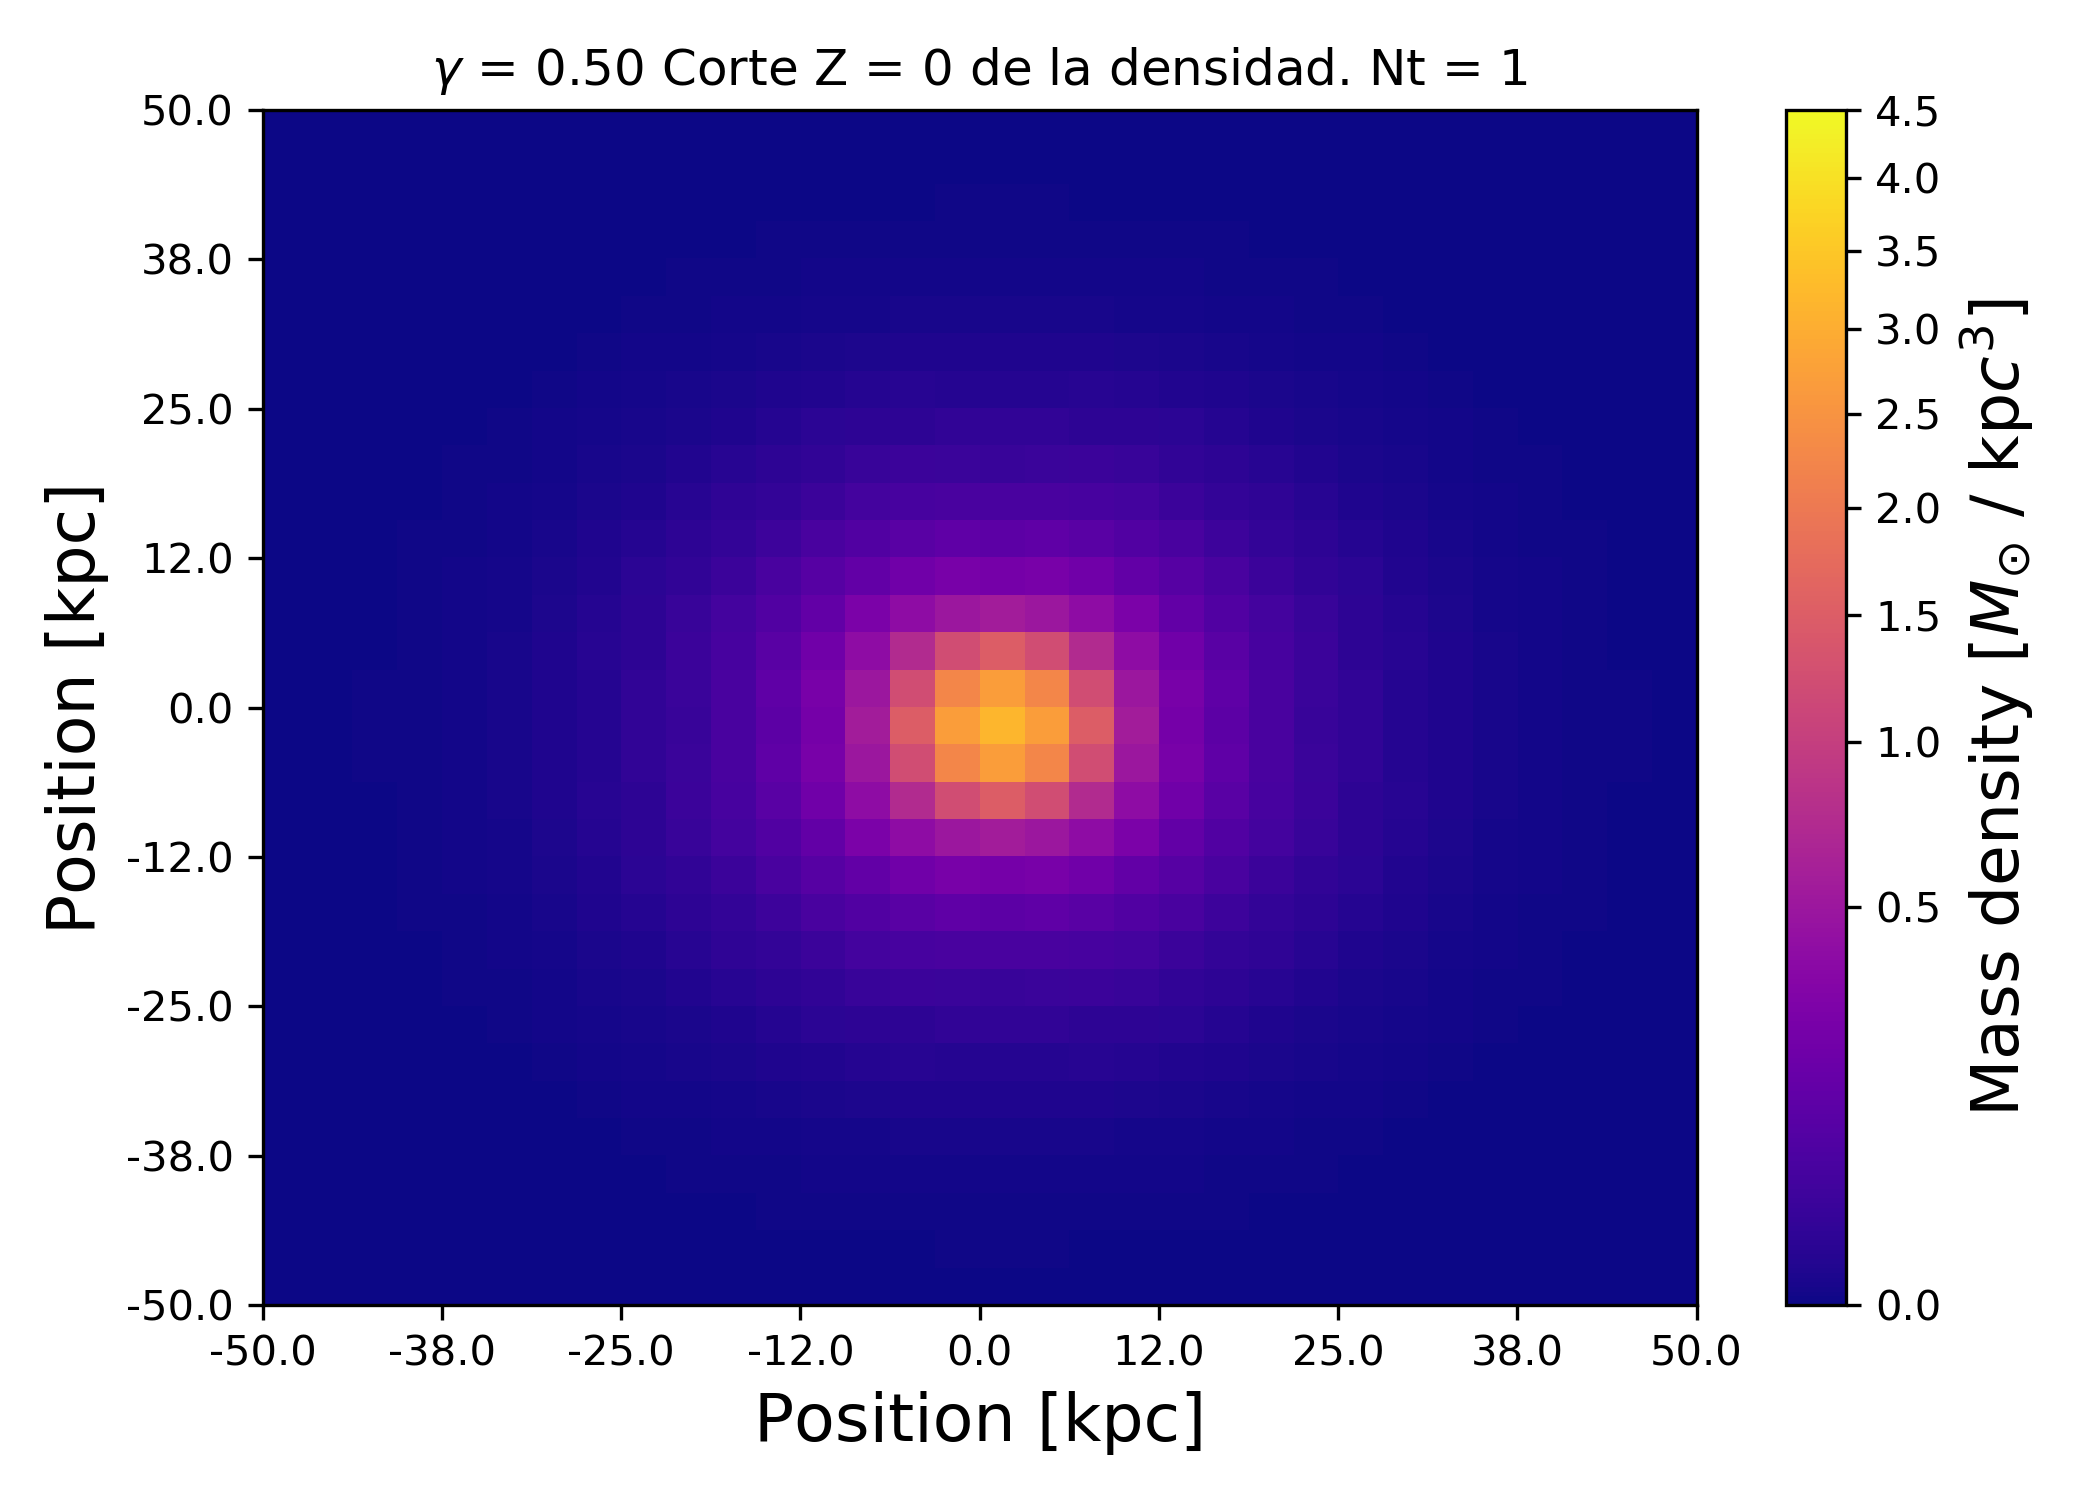
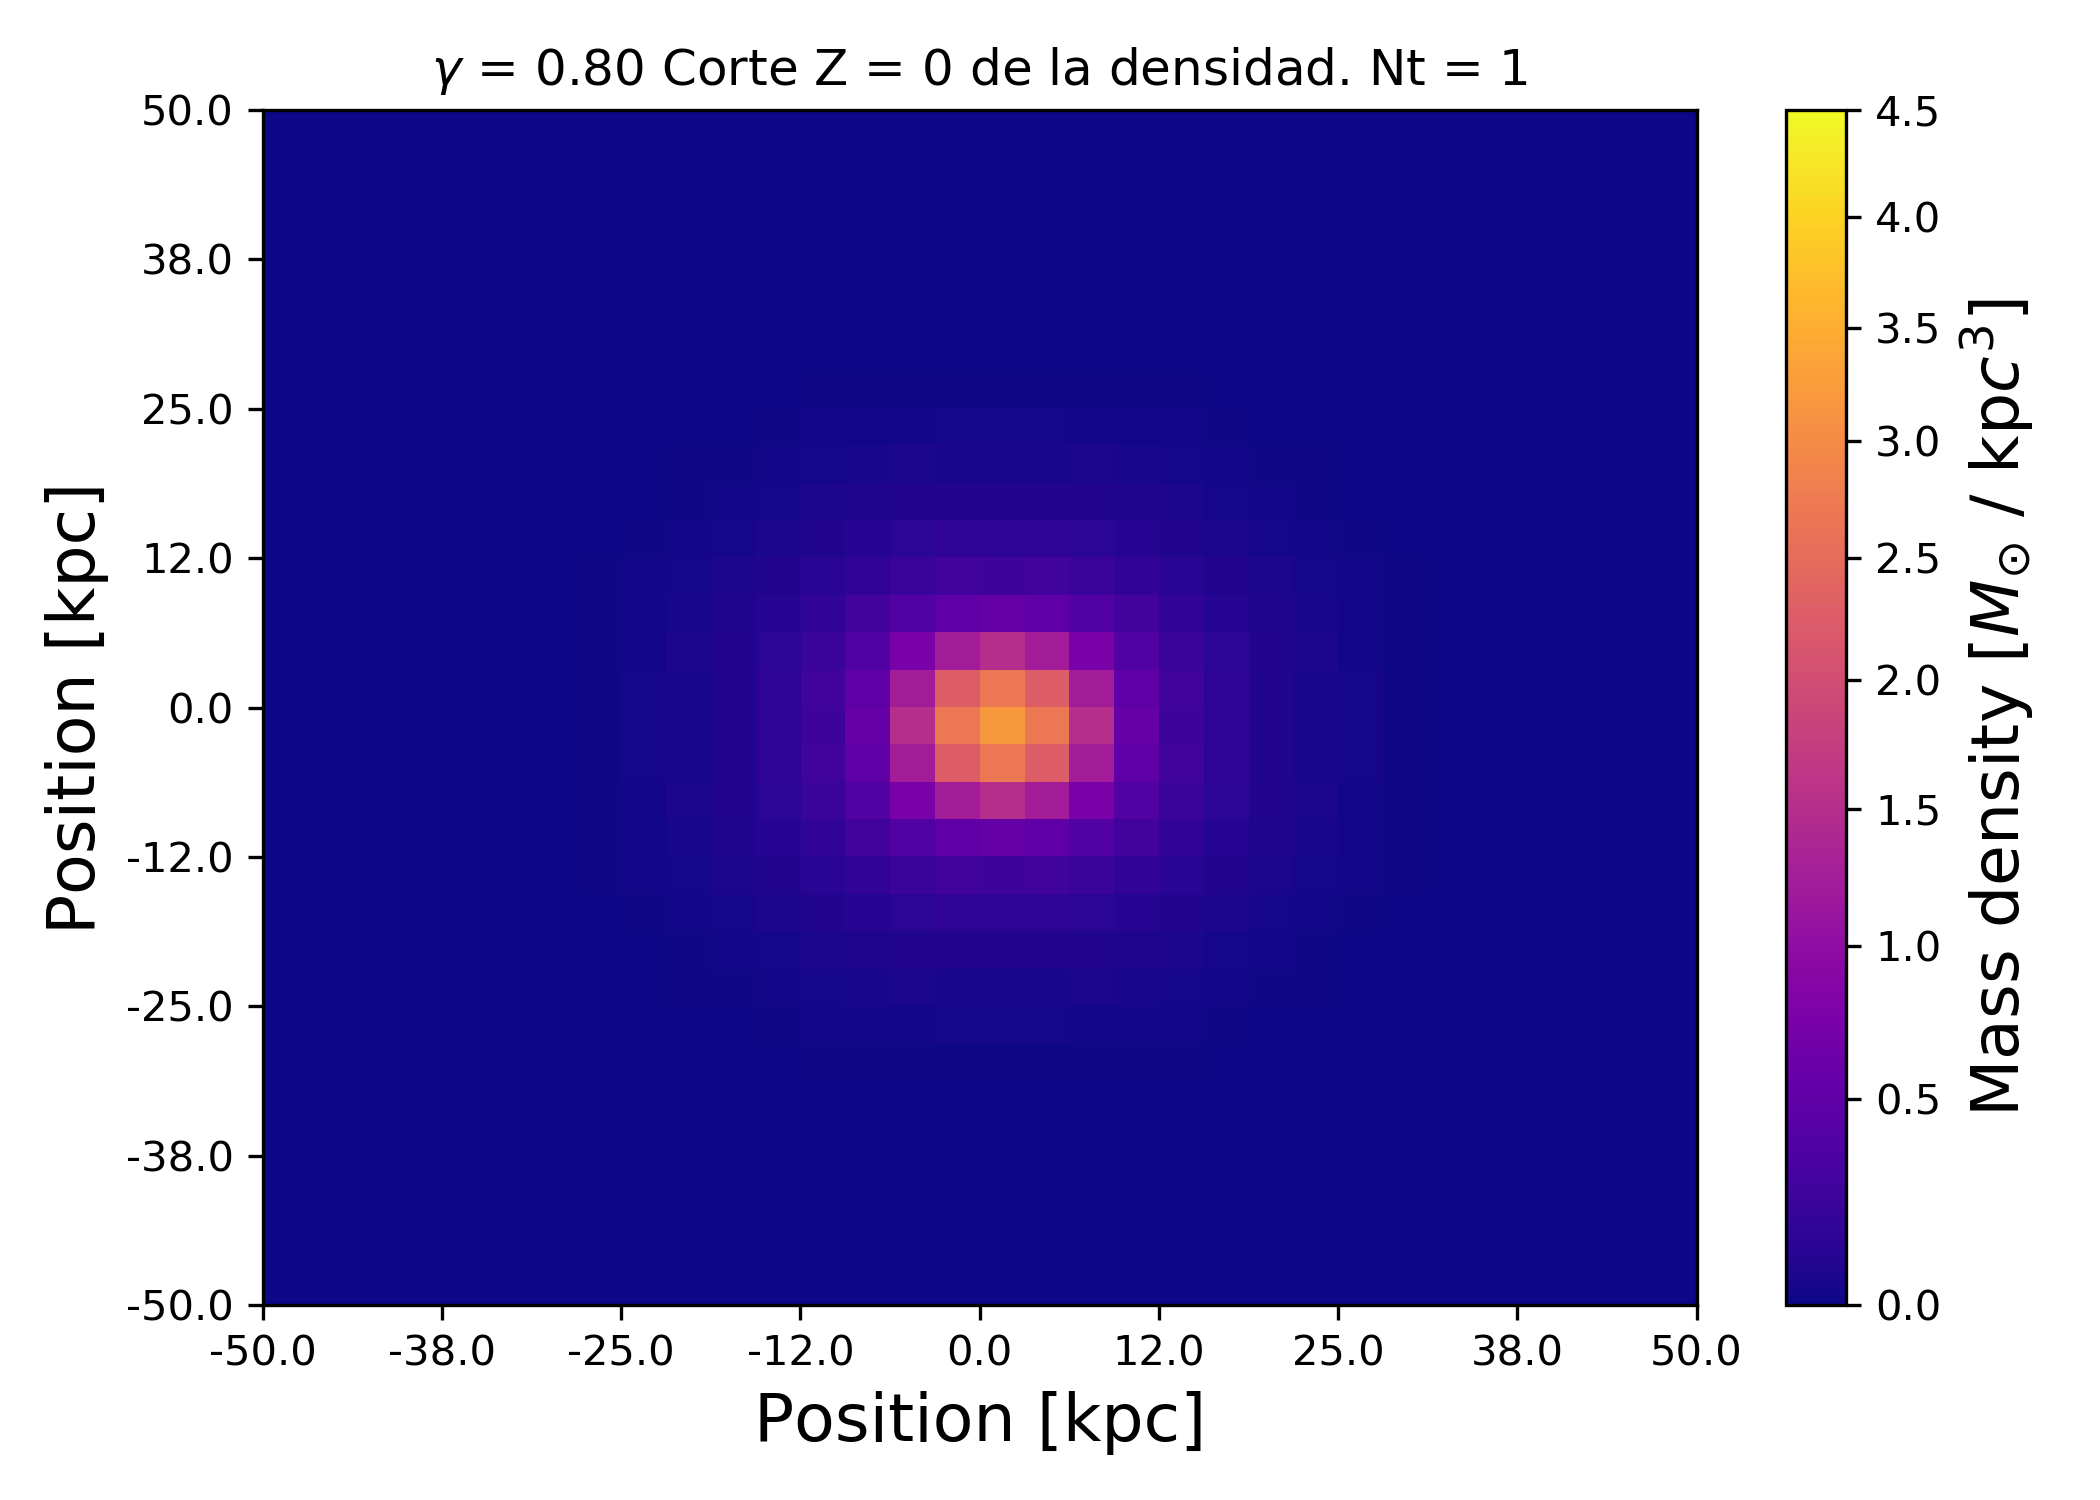
to Cluster

diff --git a/miniCluster/simPlots3D.py b/miniCluster/simPlots3D.py
@@ -24,7 +24,7 @@ Nt = int(constantes[-1])
 wMin = constantes[1]
 
 figure = plt.figure(figsize=(7,5))
-gamma = 0.5
+gamma = 0.8
 #for i in range(len(constantes)):
 #    print(i,constantes[i])
 

diff --git a/simulacion3D.c b/simulacion3D.c
@@ -220,7 +220,7 @@ double collision(int icolx, int icoly, int icolz,  int jcolx, int jcoly, int jco
 
 
 double sr = 0.2;
-double sv = 0.2;
+double sv = 0.15;
 double ampl = 100;
 
 
